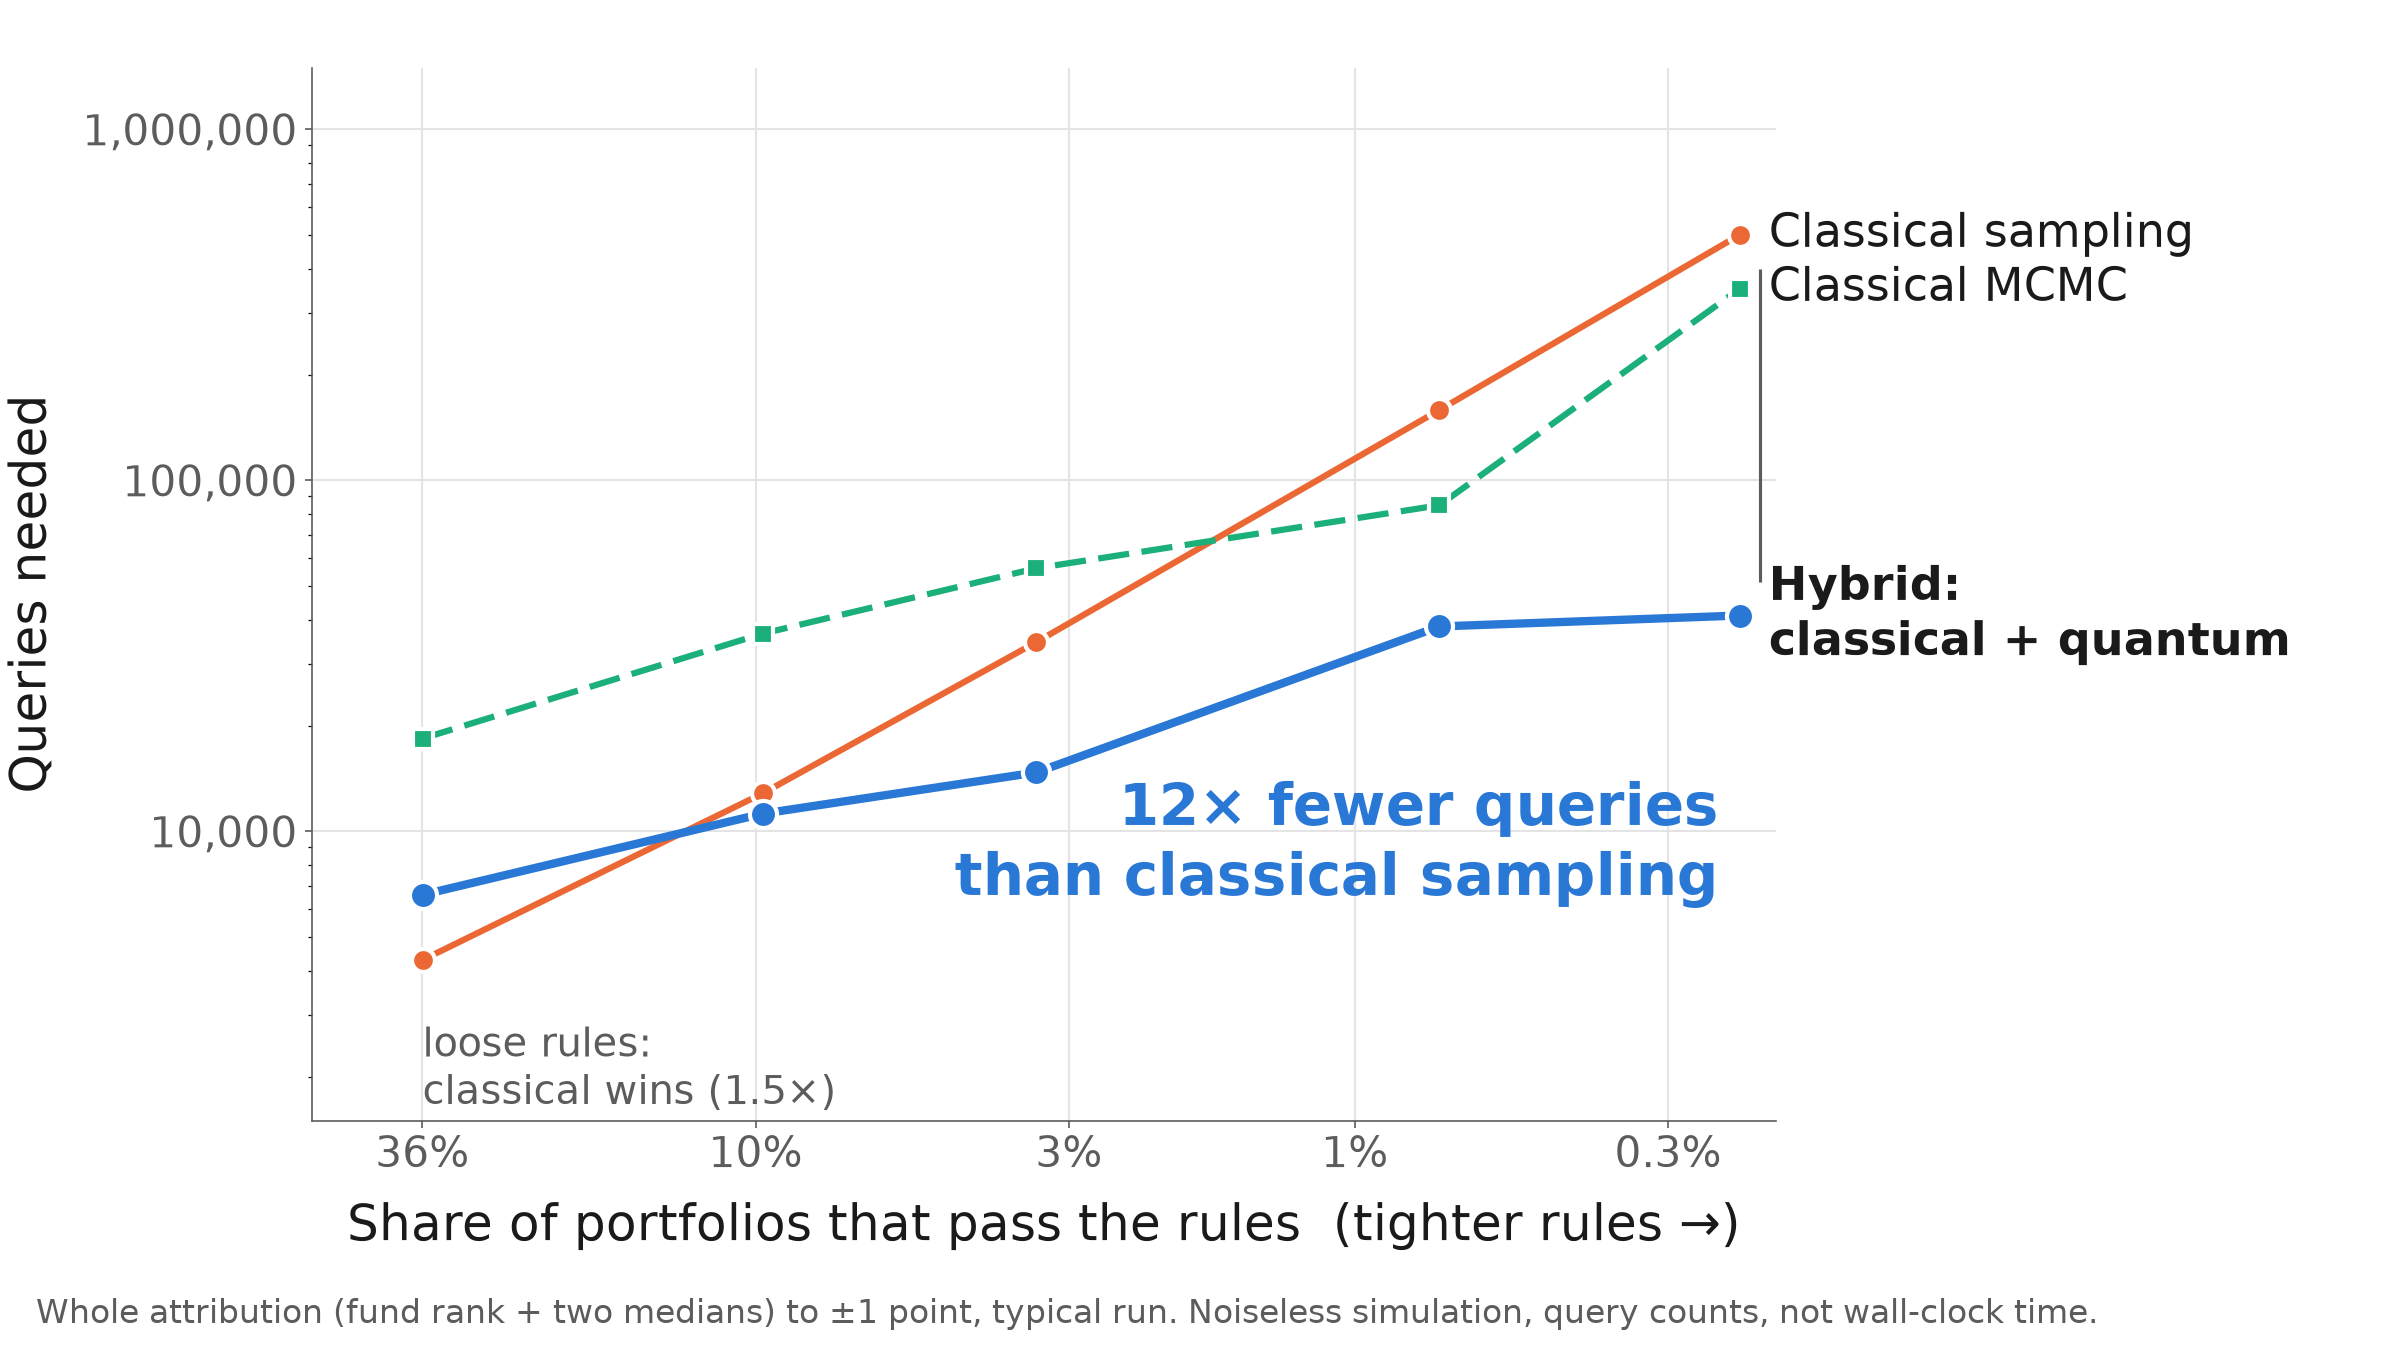
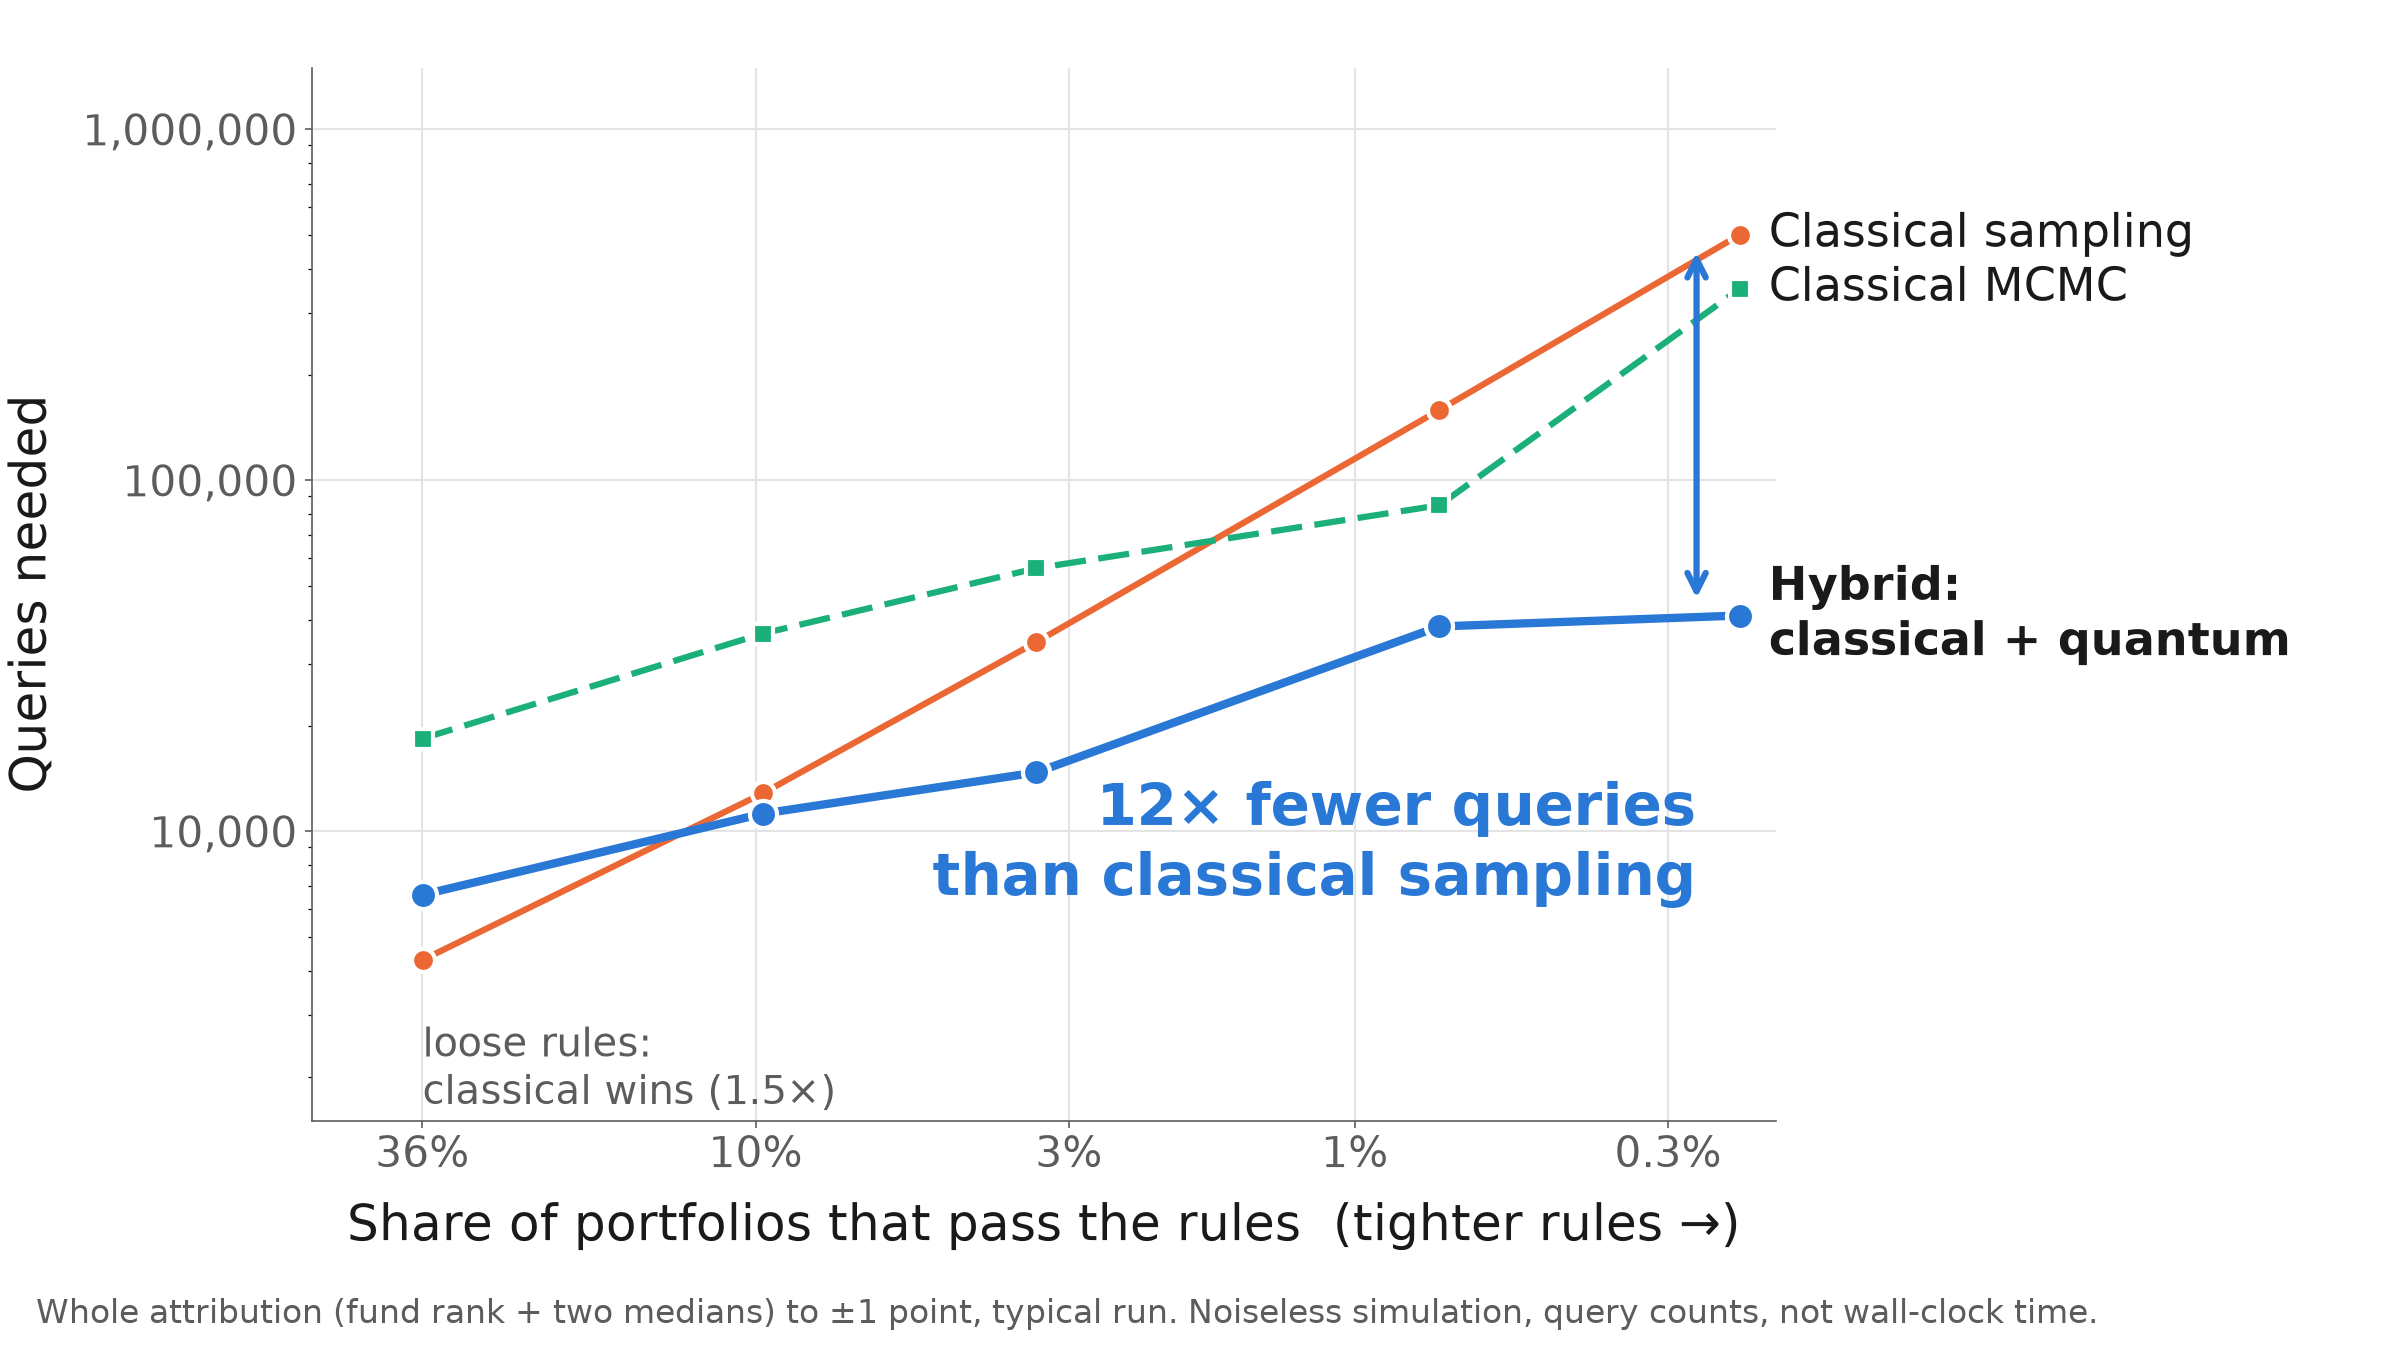
Hybrid pitch figure: arrow marks the 12x gap at the tightest rules

Changed region(s): [[0.375, 0.56, 0.7188, 0.6844], [0.6875, 0.4044, 0.7188, 0.4356], [0.6875, 0.1867, 0.7188, 0.2178]]

diff --git a/scripts/qae_hybrid_pitch.py b/scripts/qae_hybrid_pitch.py
@@ -6,6 +6,7 @@ Cases where one rank step 1/|F| exceeds the tolerance (floor_1F) are left out, a
 Outputs results/qae_hybrid_pitch.{png,svg} at 16:9.
 """
 import json
+import math
 import os
 
 import matplotlib
@@ -68,9 +69,13 @@ def main():
 
     # ratio callouts: where classical wins, and the tightest case
     r0, r1 = rej[0] / hyb[0], rej[-1] / hyb[-1]
-    ax.annotate(f"{r1:.0f}× fewer queries\nthan classical sampling", (pf[-1], hyb[-1] / 4.5), xytext=(-10, 0),
-                textcoords="offset points", ha="right", va="center", color=C_HYB, fontsize=28, fontweight="bold")
-    ax.vlines(pf[-1] / 1.08, hyb[-1] * 1.25, rej[-1] / 1.25, color=MUTED, lw=1.5)
+    # double-headed arrow spanning the gap at the tightest case, with the callout attached to it
+    xg = pf[-1] * 1.18                      # just left of the last points (x axis runs loose -> tight)
+    ax.annotate("", xy=(xg, hyb[-1] * 1.12), xytext=(xg, rej[-1] / 1.12),
+                arrowprops=dict(arrowstyle="<->", color=C_HYB, lw=3, shrinkA=0, shrinkB=0))
+    ax.annotate(f"{r1:.0f}× fewer queries\nthan classical sampling", (xg, hyb[-1] / 4.5),
+                xytext=(0, 0), textcoords="offset points", ha="right", va="center", color=C_HYB,
+                fontsize=28, fontweight="bold")
     ax.annotate(f"loose rules:\nclassical wins ({1 / r0:.1f}×)", (pf[0], rej[0]), xytext=(0, -30),
                 textcoords="offset points", ha="left", va="top", color=MUTED, fontsize=19)
 
